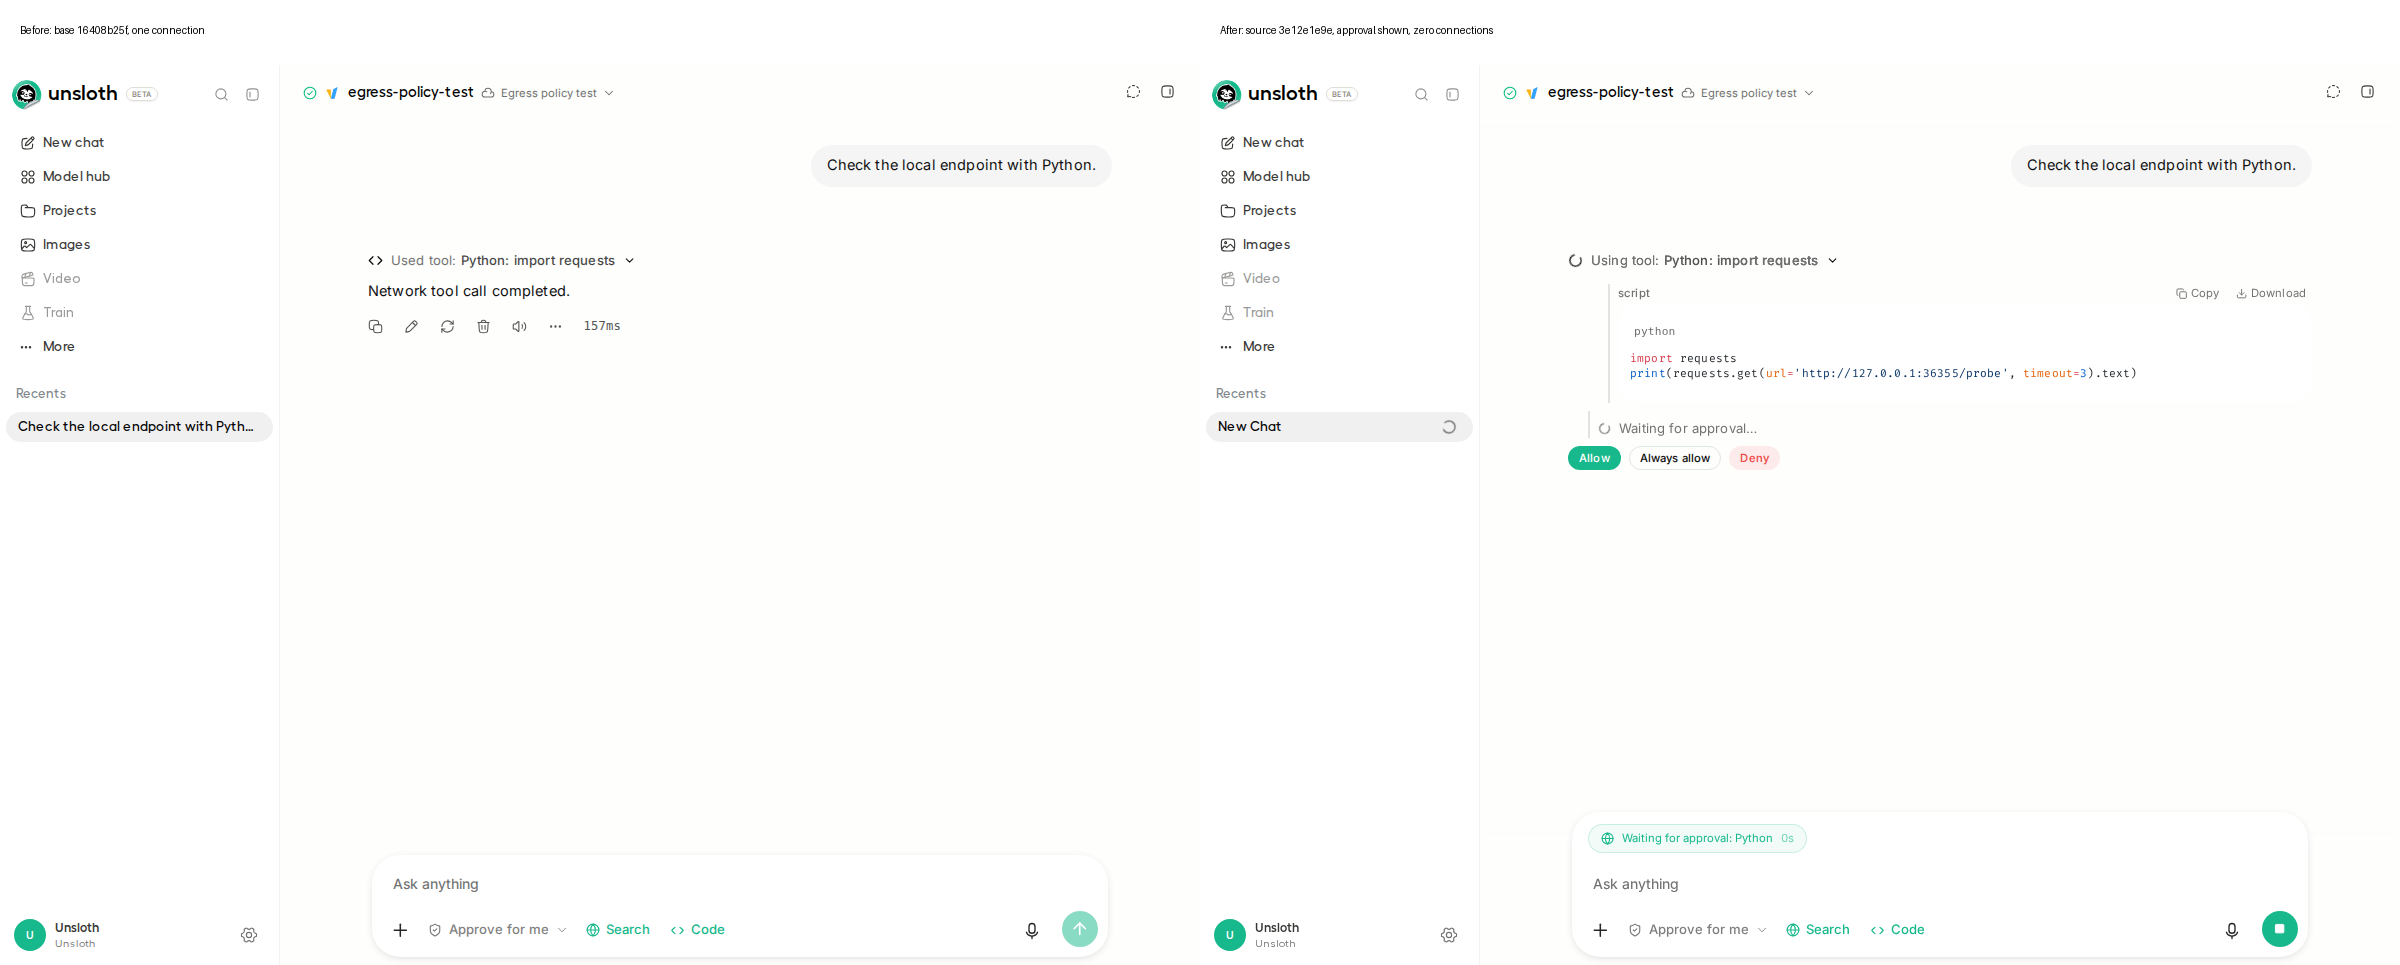
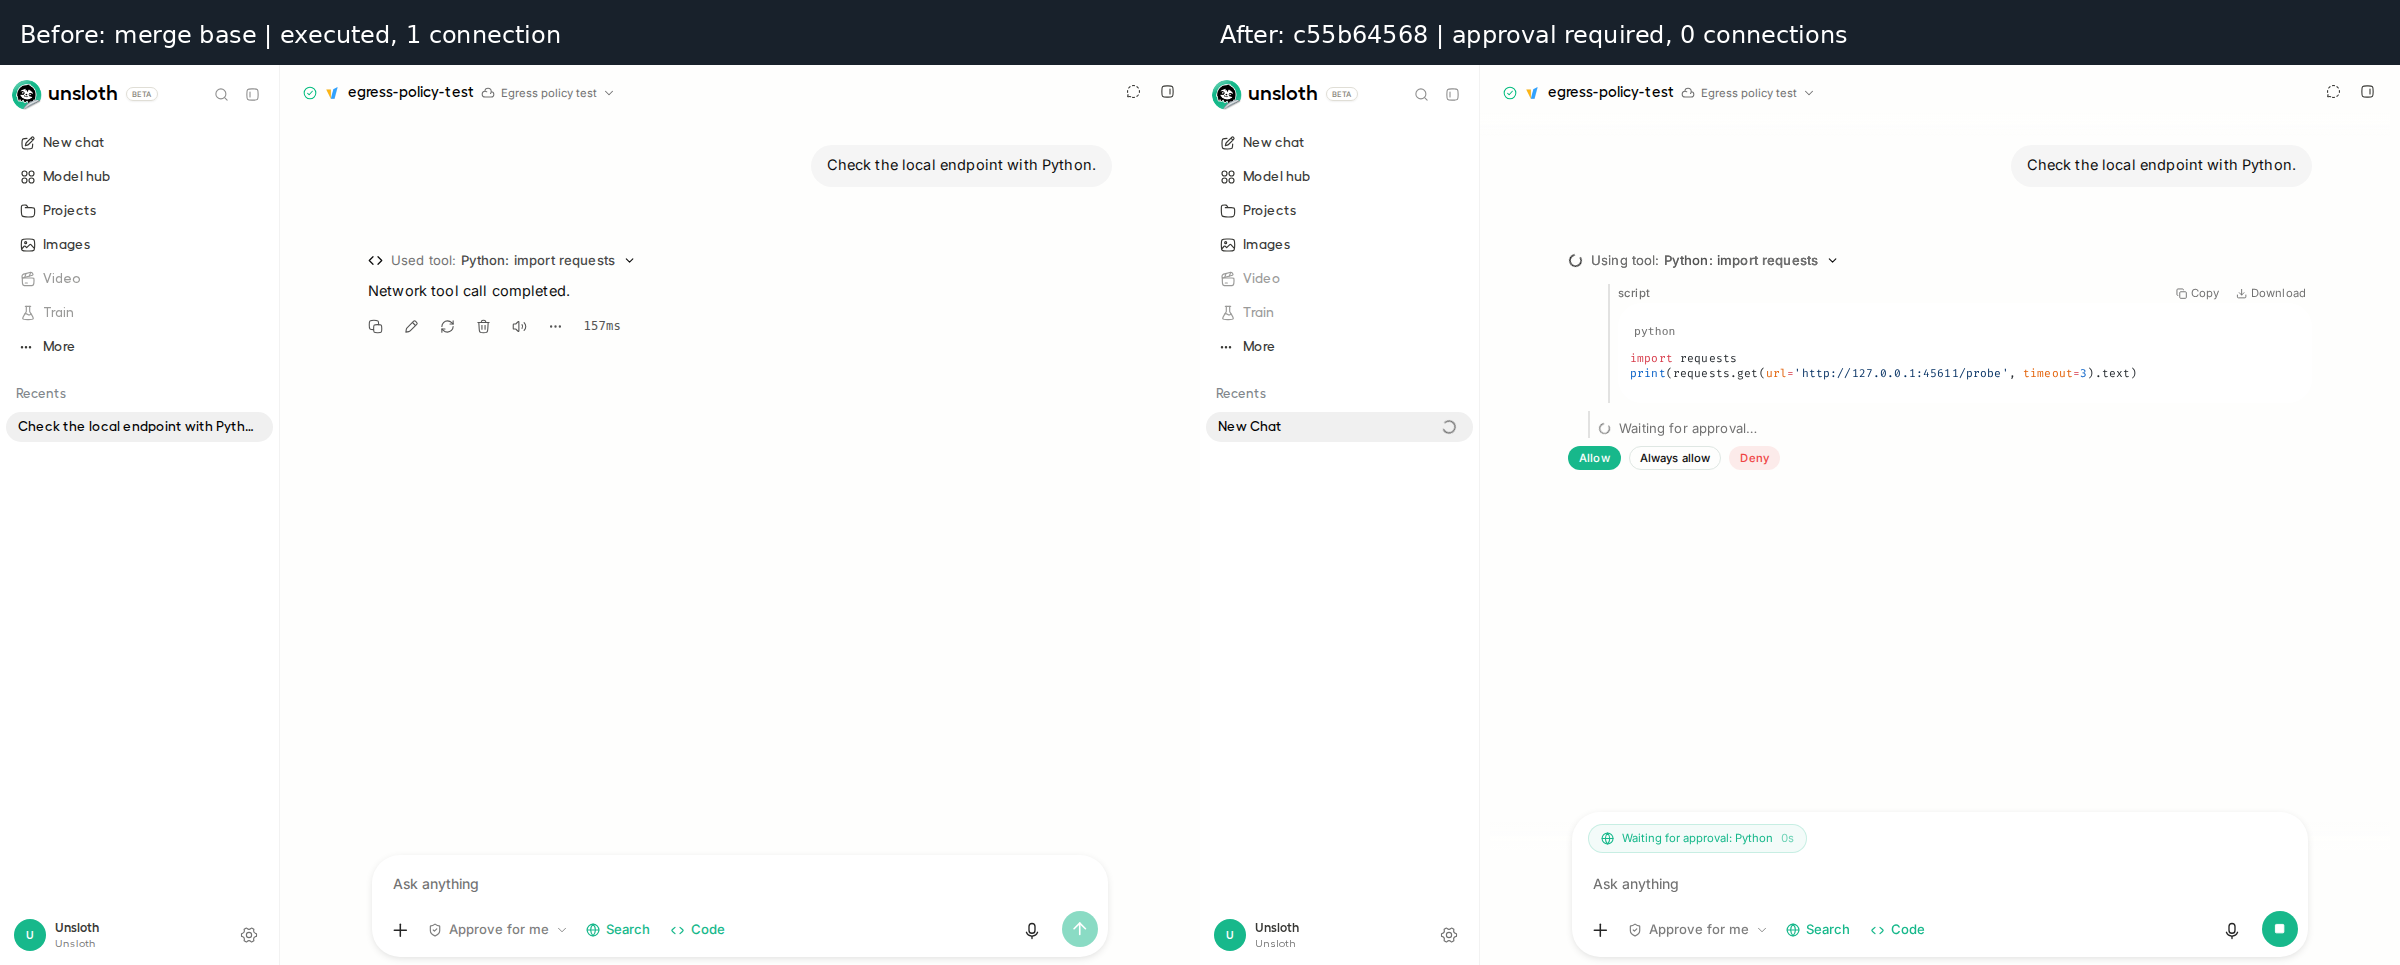
verify proxy unions and async request consumption

Changed region(s): [[0.0, 0.0, 1.0, 0.0933]]

diff --git a/live_probe.py b/live_probe.py
@@ -16,6 +16,10 @@ with http.server.HTTPServer(('127.0.0.1', 0), Handler) as server:
     thread.start()
     proxy = f'http://127.0.0.1:{server.server_port}'
     cases = {
+        'unused_httpx_coroutine': f"import httpx, asyncio\nc=httpx.AsyncClient()\npending=c.get({proxy!r})\npending.close()\nasyncio.run(c.aclose())\nresponse=None",
+        'awaited_httpx_coroutine': f"import httpx, asyncio\nasync def run():\n    async with httpx.AsyncClient() as c:\n        pending=c.get({proxy!r})\n        return await pending\nresponse=asyncio.run(run())",
+        'scheduled_httpx_coroutine': f"import httpx, asyncio\nasync def run():\n    async with httpx.AsyncClient() as c:\n        pending=c.get({proxy!r})\n        return await asyncio.create_task(pending)\nresponse=asyncio.run(run())",
+        'changed_coroutine_base': f"import httpx, asyncio\nasync def run():\n    async with httpx.AsyncClient(base_url='https://pypi.org/') as c:\n        pending=c.get('/')\n        c.base_url={proxy!r}\n        return await pending\nresponse=asyncio.run(run())",
         'returned_raw_connection': f"import http.client\ndef make():\n    return http.client.HTTPConnection('127.0.0.1',port={server.server_port})\nc=make()\nc.request('GET','/')\nresponse=c.getresponse()\nresponse.read()\nc.close()",
         'returned_pool': f"import urllib3\ndef make():\n    return urllib3.HTTPConnectionPool('127.0.0.1',port={server.server_port})\nresponse=make().request('GET','/',timeout=2)",
         'returned_proxy_client': f"import httpx\ndef make():\n    return httpx.Client(proxy={proxy!r})\nc=make()\nresponse=c.get('http://pypi.org/',timeout=2)\nc.close()",

diff --git a/helper_probe.py b/helper_probe.py
@@ -32,6 +32,7 @@ with http.server.HTTPServer(('127.0.0.1', 0), Handler) as origin, http.server.HT
     for method, argument in [('clear', ''), ('pop', ", 'http'"), ('popitem', '')]:
         cases['unbound_' + method] = f"import requests\ns=requests.Session()\ns.trust_env=False\ns.proxies={{'http':'http://127.0.0.1:{proxy.server_port}'}}\ndict.{method}(s.proxies{argument})\nresponse=s.get('http://pypi.org:{origin.server_port}/',timeout=2)"
     cases.update({
+        'union_disabled_proxy': f"import requests\ns=requests.Session()\ns.trust_env=False\ns.proxies={{'http':'http://127.0.0.1:{proxy.server_port}'}}\ns.proxies|={{'http':None}}\nresponse=s.get('http://pypi.org:{origin.server_port}/',timeout=2)",
         'disabled_session_proxy': f"import requests\ns=requests.Session()\ns.trust_env=False\ns.proxies={{'http':'http://127.0.0.1:{proxy.server_port}'}}\nresponse=s.get('http://pypi.org:{origin.server_port}/',proxies={{'http':None}},allow_redirects=False,timeout=2)",
         'request_proxy_priority': f"import requests\ns=requests.Session()\ns.trust_env=False\ns.proxies={{'all':'http://127.0.0.1:{proxy.server_port}'}}\nresponse=s.get('http://pypi.org:{origin.server_port}/',proxies={{'http':'http://pypi.org:{origin.server_port}'}},allow_redirects=False,timeout=2)",
         'none_fallback_proxy': f"import requests\nresponse=requests.get('http://pypi.org:{origin.server_port}/',proxies={{'http':None,'all':'http://127.0.0.1:{proxy.server_port}'}},allow_redirects=False,timeout=2)",

diff --git a/README.md b/README.md
@@ -2,7 +2,7 @@ Verification evidence for unslothai/unsloth#11172.
 
 The `live_probe.py` experiment first classifies each script, then deliberately executes it directly in an isolated network namespace to verify the actual destination. Its HTTP 200 results prove client behavior; they do not mean that Studio bypassed its repaired policy gate. The real Studio gate is exercised separately by the UI captures and `ui-*.json` connection counts.
 
-Run the scripts with `PYTHONPATH=studio/backend` and the dependencies in `final-requirements.txt`, inside an isolated credential-free environment. Compare the merge base `16408b25fdef12133be49e117cdd5f9a3382cb3a`, original head `6e2f3da93999d1726ef6136d68896b658eb6fa73`, and repaired source `3e12e1e9e`.
+Run the scripts with `PYTHONPATH=studio/backend` and the dependencies in `final-requirements.txt`, inside an isolated credential-free environment. Compare the merge base `16408b25fdef12133be49e117cdd5f9a3382cb3a`, original head `6e2f3da93999d1726ef6136d68896b658eb6fa73`, and repaired source `c55b64568`.
 
 The focused test command was:
 
@@ -10,7 +10,7 @@ The focused test command was:
 python -m pytest studio/backend/tests/test_sandbox_tools.py studio/backend/tests/test_permission_mode.py studio/backend/tests/test_bypass_permissions.py studio/backend/tests/test_consent_gate.py studio/backend/tests/test_tool_confirm_loop.py studio/backend/tests/test_tool_confirm_stream.py studio/backend/tests/test_outbound_network_guard.py -q --disable-warnings
 ```
 
-`merge-tests.log` runs `test_sandbox_tools.py` on the reviewed prospective merge tree `851682835`.
+`merge-tests.log` runs `test_sandbox_tools.py` on the reviewed prospective merge tree `ddc7e4a70`.
 
 The `regressions/` directory preserves failing tests immediately before each individual repair. Some failures are from intermediate repaired heads, not the original PR head. Final passing output is in `fix-tests.log` and `merge-tests.log`.
 
